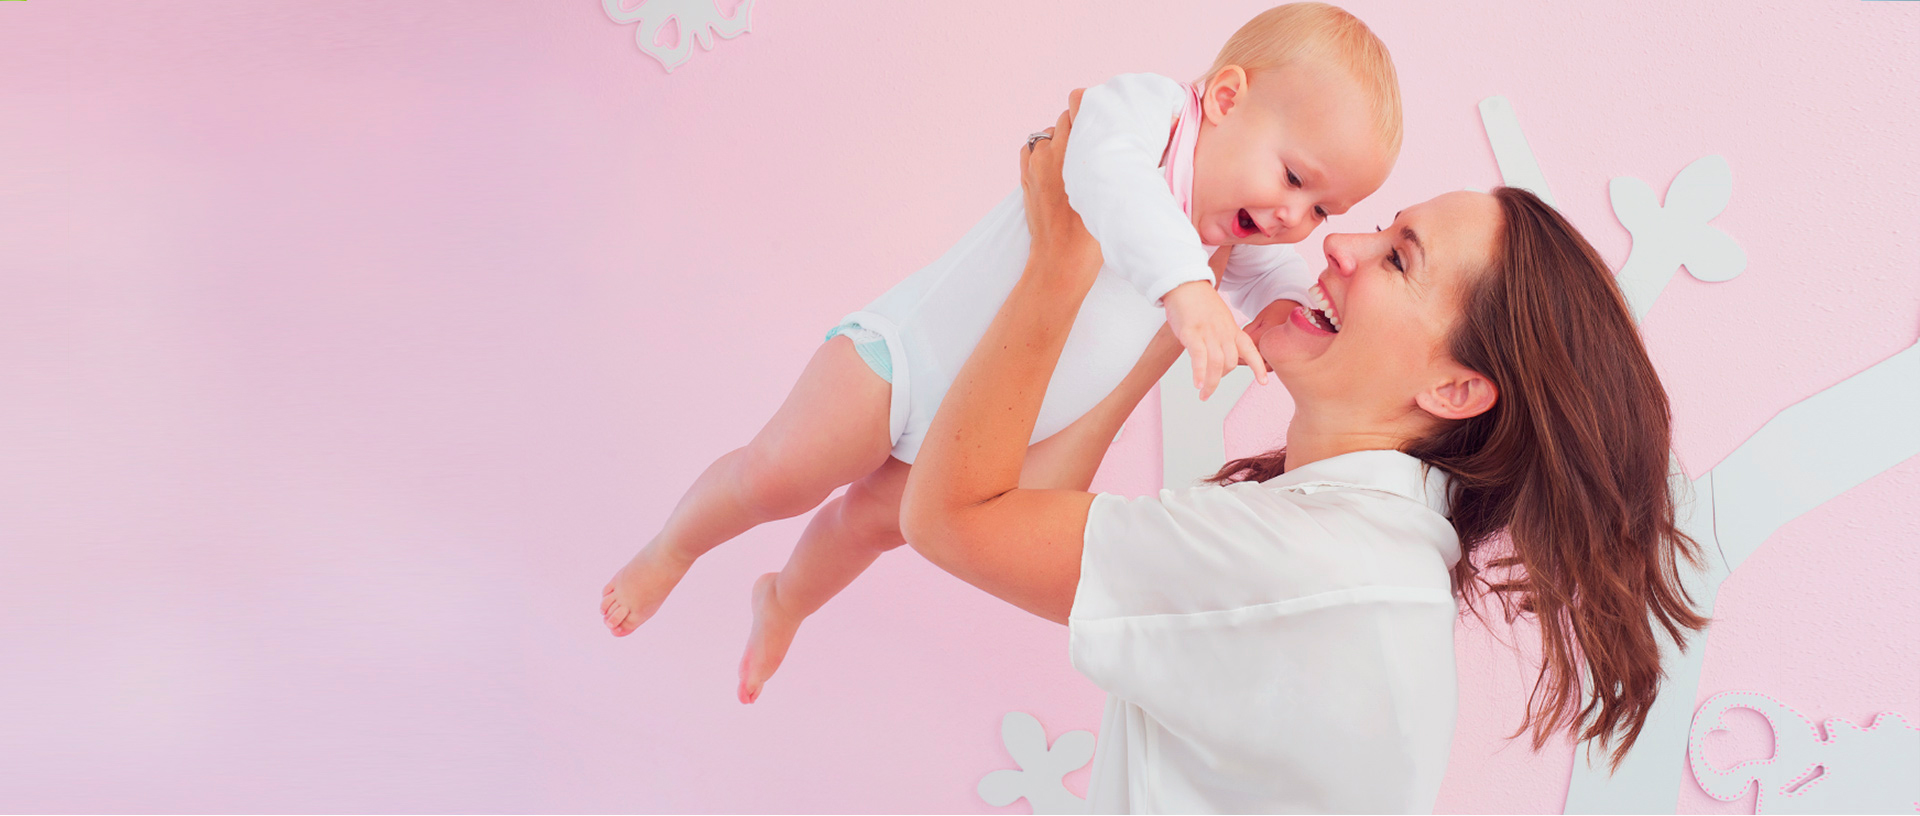
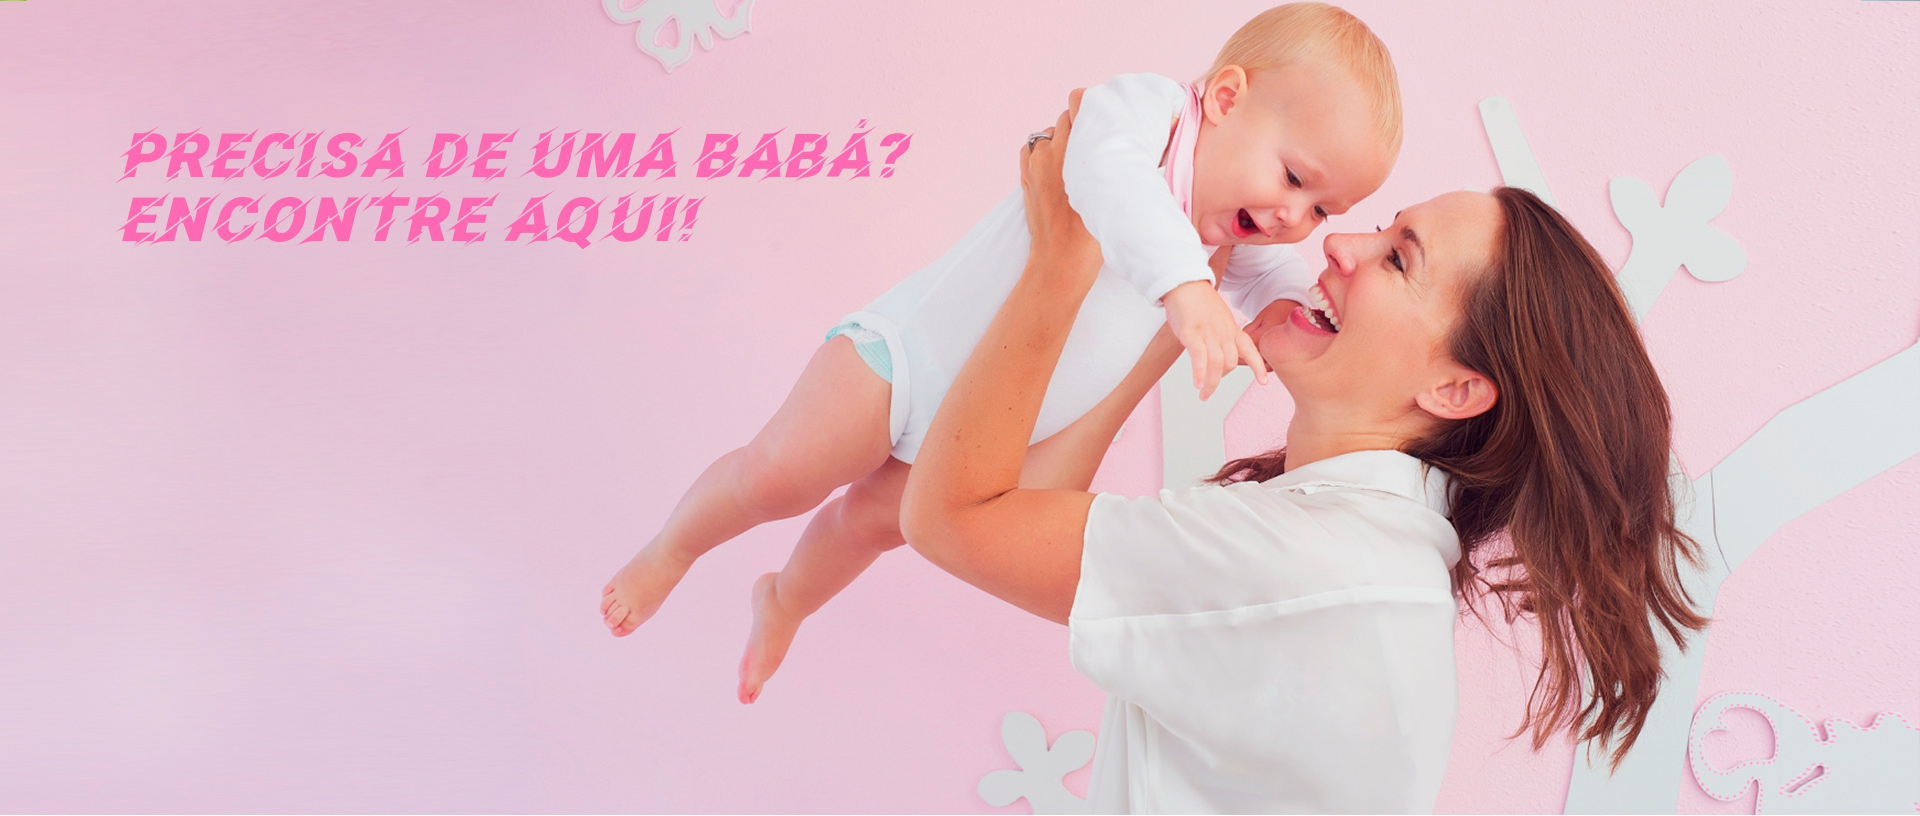
Updated carousel

Changed region(s): [[0.0625, 0.1532, 0.4688, 0.3064]]

diff --git a/src/components/Carousel.vue b/src/components/Carousel.vue
@@ -13,26 +13,18 @@ export default {
     return {
       items: [
         {
-          src: "header1.jpg"
+          src: "header1_.jpg"
         },
         {
           src: "header2.jpg"
         },
-        {
-          src: "header3.jpg"
-        },
-        {
-          src: "header4.jpg"
-        },
-        {
-          src: "header5.jpg"
+         {
+          src: "baba.jpg"
         },
         {
           src: "header11.jpg"
-        },
-        {
-          src: "header7.jpg"
         }
+       
       ]
     };
   }
